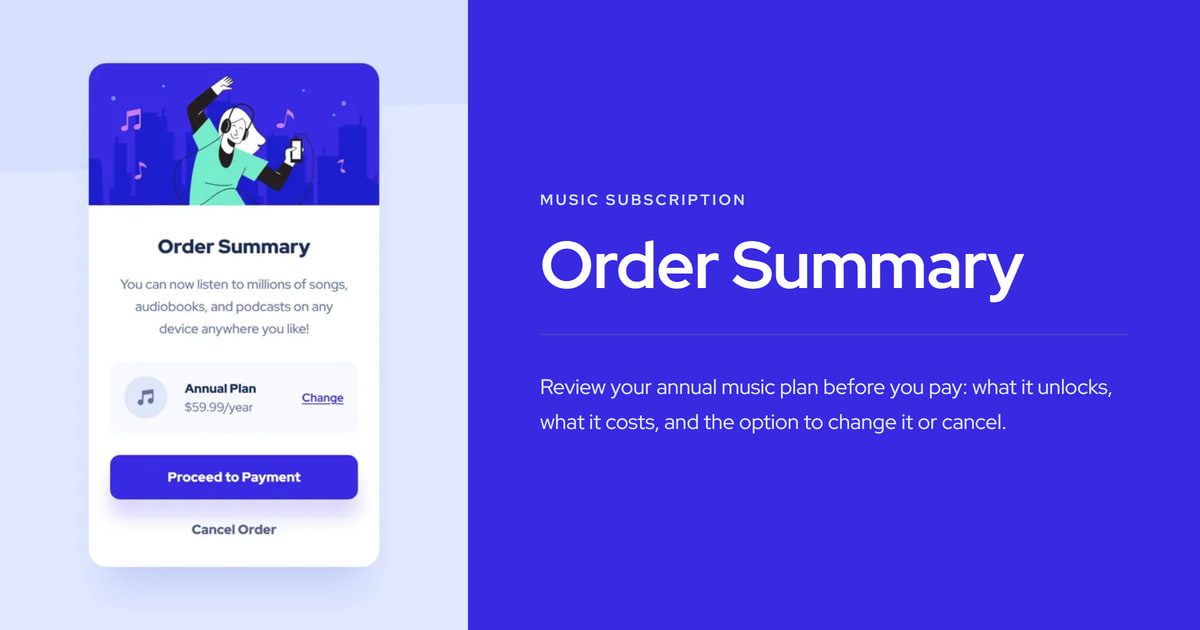
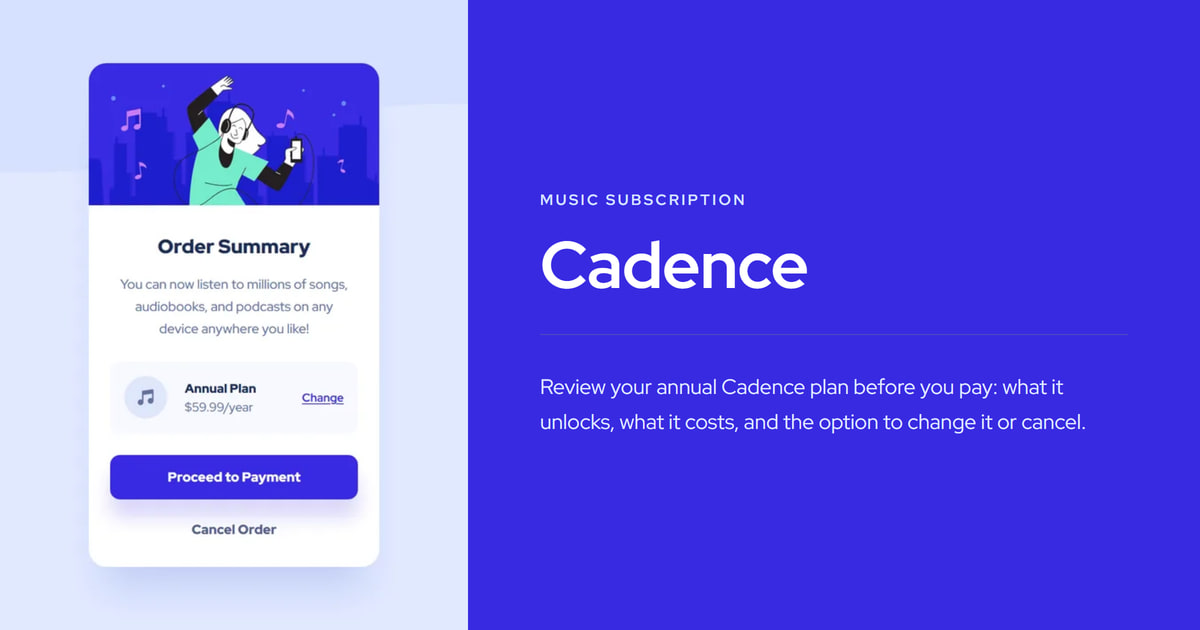
Update site branding and metadata for Cadence

Changed region(s): [[0.4625, 0.3619, 0.8633, 0.4825], [0.4317, 0.6635, 0.8942, 0.6937], [0.5858, 0.6032, 0.925, 0.6333]]

diff --git a/src/data/site.ts b/src/data/site.ts
@@ -3,12 +3,12 @@ import type { Metadata } from "next";
 export const SITE_URL =
   "https://order-summary-component.abdelrhman-ahmed8881.workers.dev";
 
-export const SITE_NAME = "Order Summary";
+export const SITE_NAME = "Cadence";
 
-export const SITE_TITLE = `${SITE_NAME} | Confirm your annual plan`;
+export const SITE_TITLE = `${SITE_NAME} | Millions of songs, audiobooks and podcasts`;
 
 export const SITE_DESCRIPTION =
-  "Review your annual music plan before you pay: what it unlocks, what it costs, and the option to change it or cancel.";
+  "Review your annual Cadence plan before you pay: what it unlocks, what it costs, and the option to change it or cancel.";
 
 export const openGraphBase = {
   siteName: SITE_NAME,
@@ -19,7 +19,7 @@ export const openGraphBase = {
       url: "/opengraph-image.jpg",
       width: 1200,
       height: 630,
-      alt: "The order summary card showing the annual plan, its price, and the payment button.",
+      alt: "The Cadence order summary card showing the annual plan, its price, and the payment button.",
     },
   ],
 } satisfies Metadata["openGraph"];

diff --git a/src/app/not-found.test.tsx b/src/app/not-found.test.tsx
@@ -22,7 +22,7 @@ describe("NotFound", () => {
   });
 
   it("carries its own title and stays out of the index", () => {
-    expect(metadata.title).toBe("Order Summary | Page not found");
+    expect(metadata.title).toBe("Cadence | Page not found");
     expect(metadata.robots).toEqual({ index: false });
   });
 });
